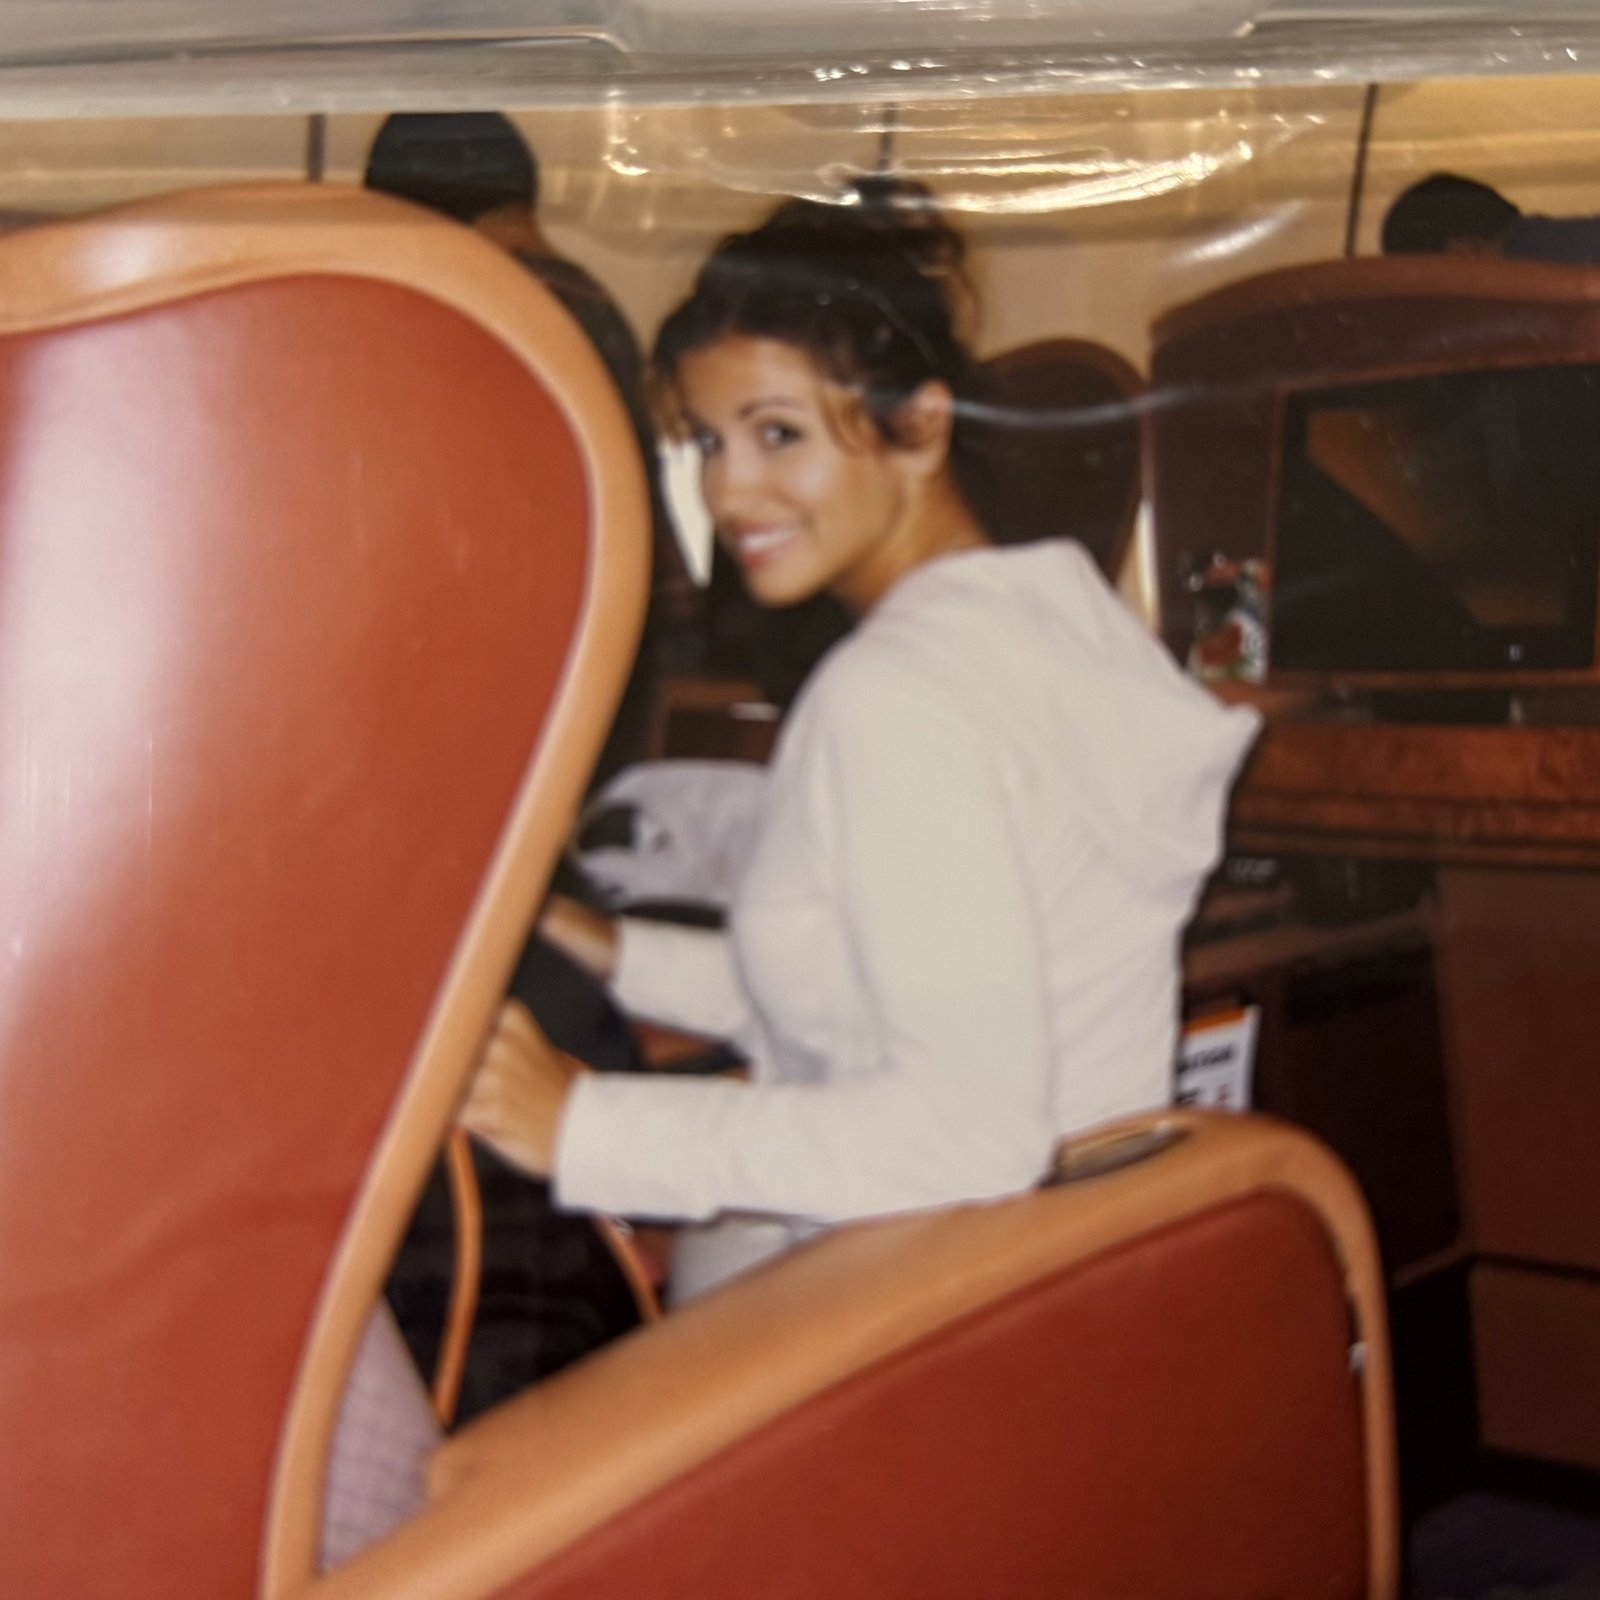
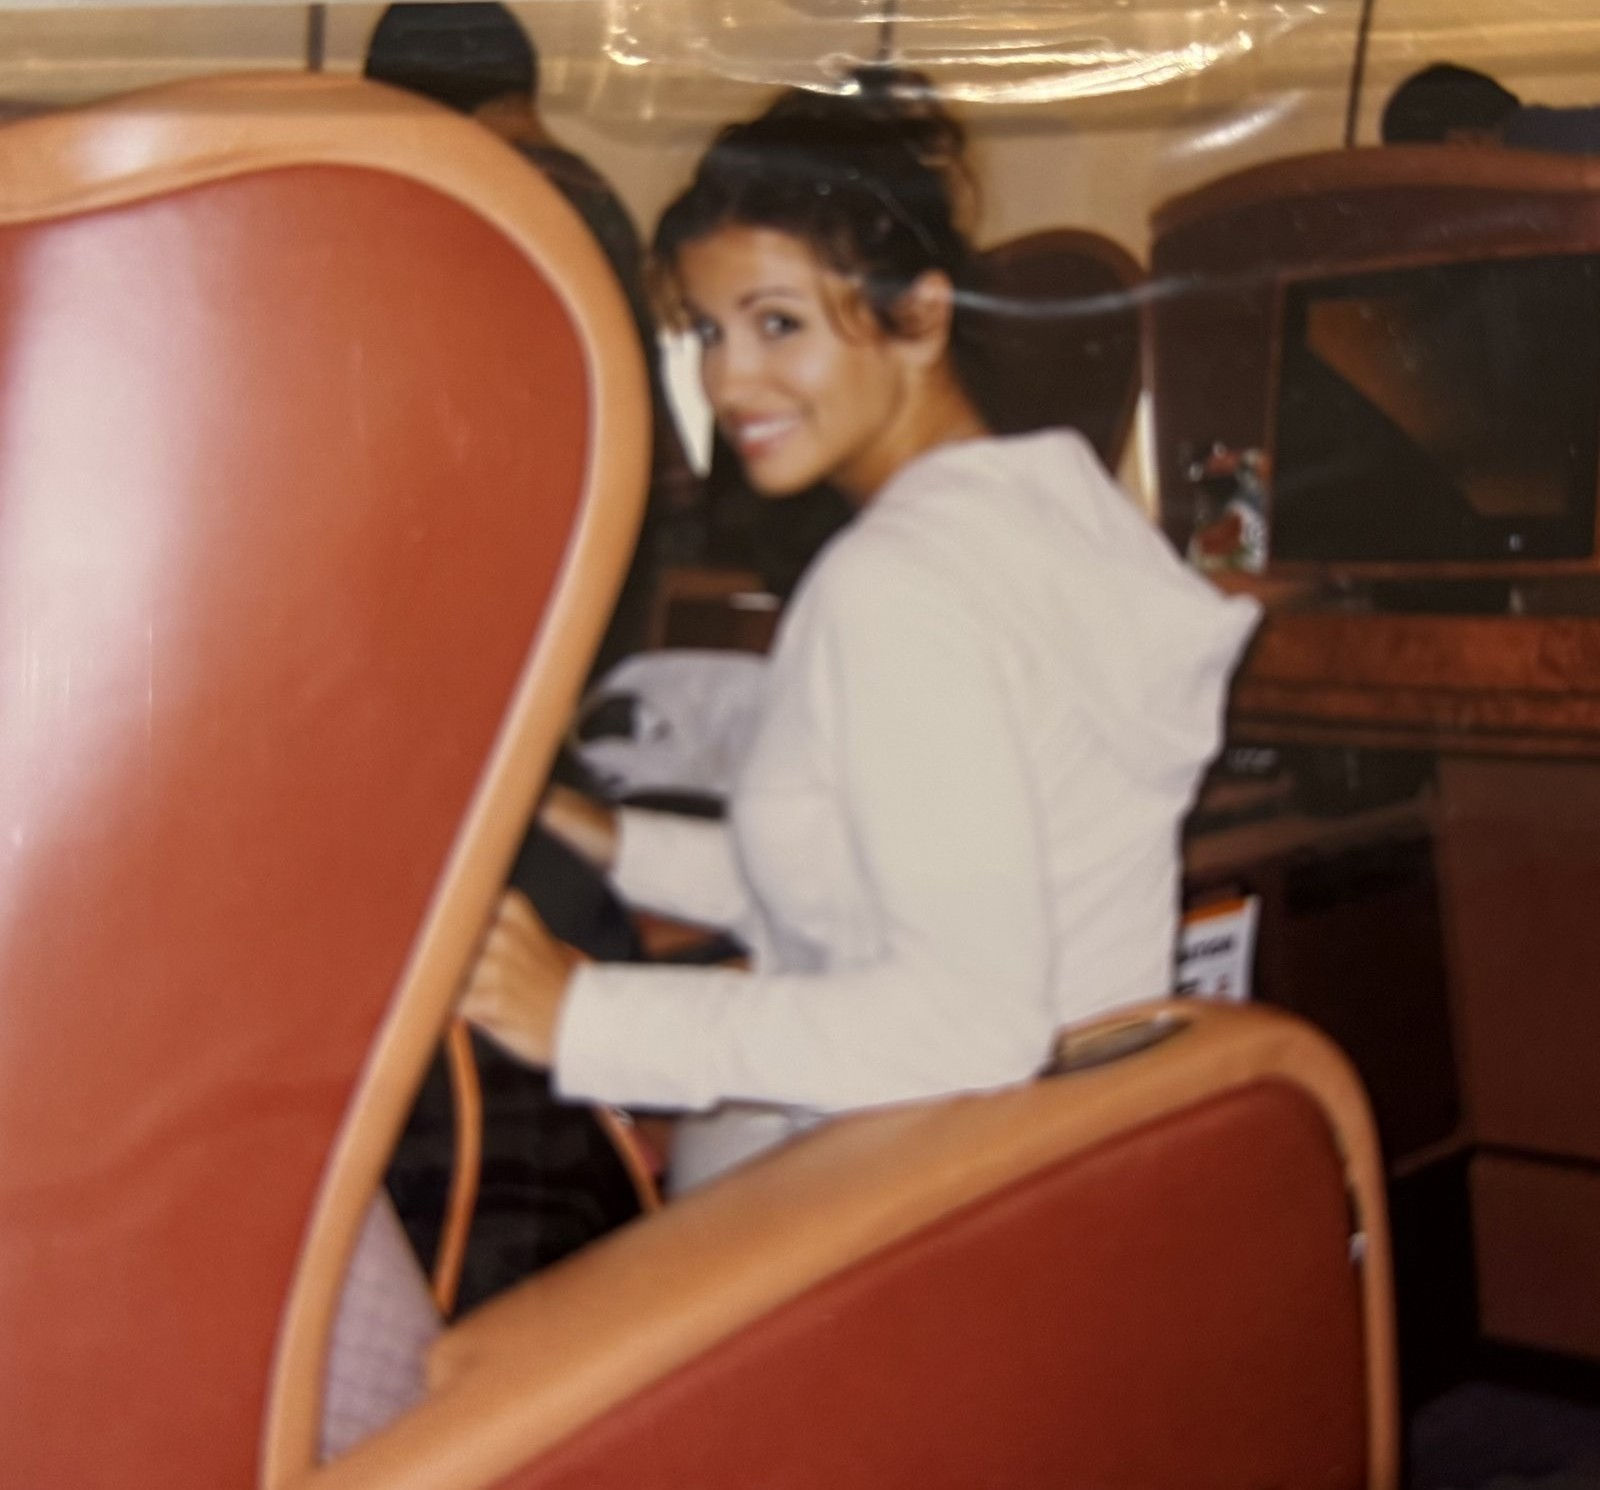
Apply the gallery caption and crop notes that match the photos.
The RV and the two group photos get Jen's captions. The Timberlake still is out, and the green-top photo takes the Siren Song slot. The leather-seat photo loses the plastic edge. Numbers that were a different picture were left alone.

diff --git a/app/components/PhotoGallery.js b/app/components/PhotoGallery.js
@@ -292,7 +292,7 @@ const NOV4 = [
   { src: '/assets/gallery-nov4/nov4-12-bunny-costume.jpg', alt: 'Jen Archuleta in a bunny costume with her husband at a Playboy party', caption: '', width: 1259, height: 1600 },
   { src: '/assets/gallery-nov4/nov4-13-family-ocean.jpg', alt: 'Jen Archuleta and her family in the ocean', caption: '', width: 1063, height: 1600 },
   { src: '/assets/gallery-nov4/nov4-14-hawaii-beach.jpg', alt: 'Jen Archuleta with a friend on a Hawaii beach', caption: '', width: 1275, height: 1600 },
-  { src: '/assets/gallery-nov4/nov4-15-red-leather-seat.jpg', alt: 'Jen Archuleta in a red leather seat', caption: '', width: 1600, height: 1600 },
+  { src: '/assets/gallery-nov4/nov4-15-red-leather-seat.jpg', alt: 'Jen Archuleta in a red leather seat', caption: '', width: 1600, height: 1490 },
   { src: '/assets/gallery-nov4/nov4-16-ballet-chair.jpg', alt: 'Jen Archuleta on a chair in ballet shoes', caption: '', width: 910, height: 1600 },
   { src: '/assets/gallery-nov4/nov4-17-pink-aprons.jpg', alt: 'Jen Archuleta and a friend in pink aprons', caption: '', width: 1320, height: 1287 },
   { src: '/assets/gallery-nov4/nov4-18-playboy-lite-red-carpet.jpg', alt: 'Jen Archuleta with Hugh Hefner and a group on the Playboy red carpet', caption: '', width: 612, height: 396 },
@@ -307,15 +307,15 @@ const CHILDHOOD = [
 
 // November 4, second batch. No captions. Alt text names only Jen.
 const NOV4B = [
-  { src: '/assets/gallery-nov4b/nov4b-02-timberlake-nelly-robes.jpg', alt: 'Jen Archuleta in a robe', caption: '', width: 793, height: 655 },
-  { src: '/assets/gallery-nov4b/nov4b-03-siren-song-magazine.jpg', alt: 'Jen Archuleta on a magazine page', caption: '', width: 917, height: 1243 },
+  // Siren Song (old slide 108) is replaced by the green-top photo (old slide 115).
+  // The Timberlake and Nelly still (old slide 107) is out.
+  { src: '/assets/gallery-nov4b/nov4b-10-green-top-white-shorts.jpg', alt: 'Jen Archuleta in a green top and white shorts', caption: '', width: 1150, height: 1480 },
   { src: '/assets/gallery-nov4b/nov4b-04-two-women-laughing.jpg', alt: 'Jen Archuleta laughing with a friend', caption: '', width: 1242, height: 1550 },
   { src: '/assets/gallery-nov4b/nov4b-05-beach-bikini-lookback.jpg', alt: 'Jen Archuleta on the beach', caption: '', width: 1242, height: 1243 },
   { src: '/assets/gallery-nov4b/nov4b-06-couch-fishburne.jpg', alt: 'Jen Archuleta seated on a couch', caption: '', width: 1242, height: 1188 },
   { src: '/assets/gallery-nov4b/nov4b-07-purple-dress-magazine.jpg', alt: 'Jen Archuleta in a purple dress on a magazine page', caption: '', width: 900, height: 1440 },
   { src: '/assets/gallery-nov4b/nov4b-08-bunny-ears-party.jpg', alt: 'Jen Archuleta at a party in bunny ears', caption: '', width: 861, height: 940 },
   { src: '/assets/gallery-nov4b/nov4b-09-four-people-beads.jpg', alt: 'Jen Archuleta with friends', caption: '', width: 1040, height: 820 },
-  { src: '/assets/gallery-nov4b/nov4b-10-green-top-white-shorts.jpg', alt: 'Jen Archuleta in a green top and white shorts', caption: '', width: 1150, height: 1480 },
   { src: '/assets/gallery-nov4b/nov4b-11-hefner-calendar-signing.jpg', alt: 'Jen Archuleta at a calendar signing', caption: '', width: 930, height: 700 },
   { src: '/assets/gallery-nov4b/nov4b-12-sunglasses-party.jpg', alt: 'Jen Archuleta at a party in sunglasses', caption: '', width: 980, height: 820 },
   { src: '/assets/gallery-nov4b/nov4b-13-award-podium.jpg', alt: 'Jen Archuleta at an awards podium', caption: '', width: 1040, height: 660 },
@@ -421,6 +421,9 @@ const GALLERY_CAPTIONS = {
   '/assets/gallery-nov3/18-mansion-lawn.jpg': 'Playboy Mansion',
   '/assets/gallery-nov3/19-private-jet.jpg': 'Jett setting',
   '/assets/gallery-nov3/20-spartan-race.jpg': 'I Am Spartan',
+  '/assets/gallery-nov3/21-rv-family.jpg': 'Home is where you park it',
+  '/assets/gallery-new/new_23.jpg': 'The OGs',
+  '/assets/gallery-new/new_24.jpg': 'The OGs',
   '/assets/gallery-new/new_18.jpg': 'A birthday cake worth remembering',
   '/assets/gallery-picks/154.jpg': 'Bangkok, Thailand',
   '/assets/gallery-picks/175.jpg': 'Turkey trot, thankful for friends',
@@ -560,7 +563,7 @@ export default function PhotoGallery({ showTitle = true } = {}) {
   return (
     <section id="gallery" className="gallery-band" aria-labelledby="gallery-heading">
       <div className="wrap">
-        <h2 id="gallery-heading" className={showTitle ? undefined : 'visually-hidden'}>Gallery</h2>
+        <h2 id="gallery-heading" className={showTitle ? undefined : 'visually-hidden'}>A few photos from my past</h2>
         <div
           ref={stageRef}
           className="gallery-stage"
@@ -593,7 +596,7 @@ export default function PhotoGallery({ showTitle = true } = {}) {
                 {nearby.map(({ offset, slide: item }) => (
                   <div
                     key={item.src}
-                    className={`gallery-slide${offset === 0 ? ' is-active' : ''}${item.src.endsWith('/42.jpg') ? ' is-large' : ''}`}
+                    className={`gallery-slide${offset === 0 ? ' is-active' : ''}${item.src.endsWith('/42.jpg') || item.src.endsWith('nov4-13-family-ocean.jpg') ? ' is-large' : ''}`}
                     aria-hidden={offset === 0 ? undefined : true}
                     style={slideStyle(item)}
                   >
